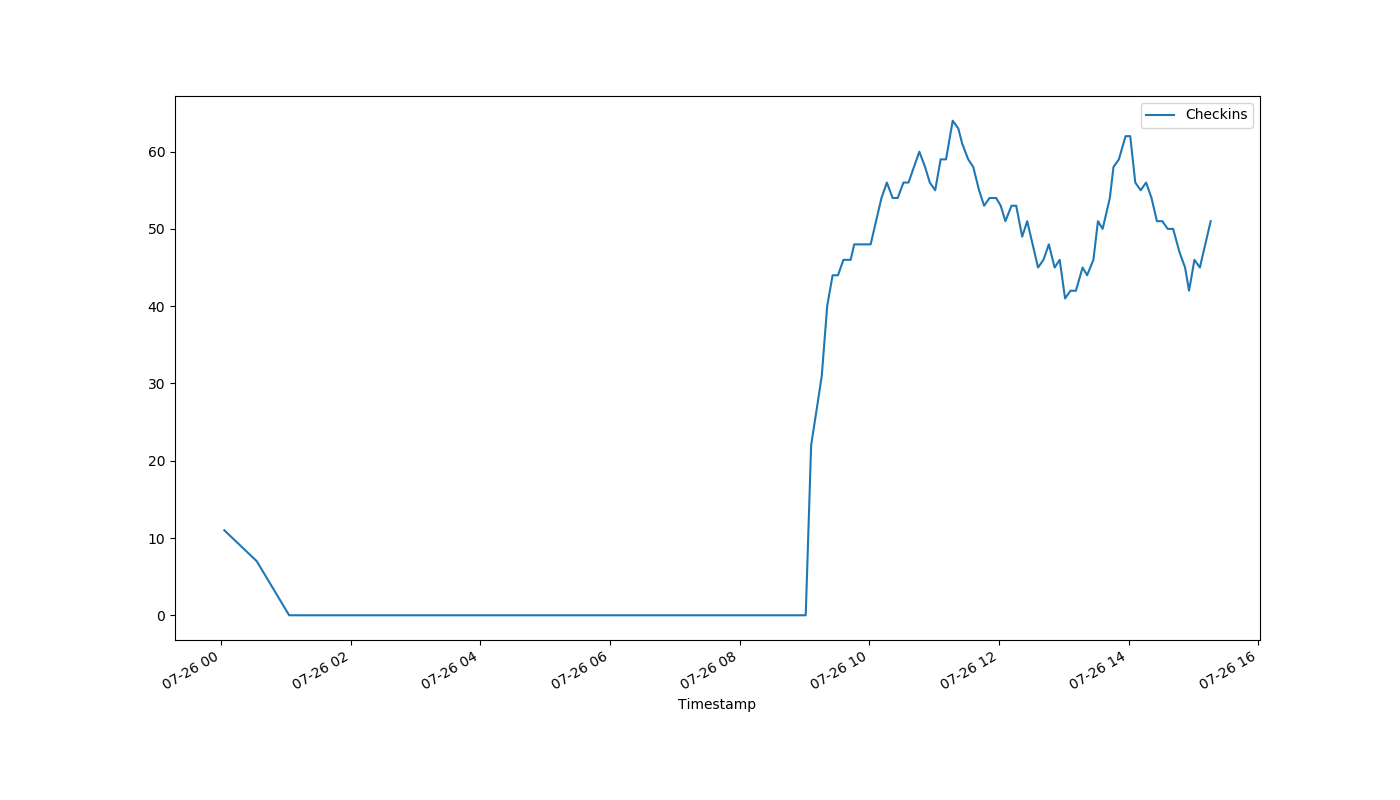
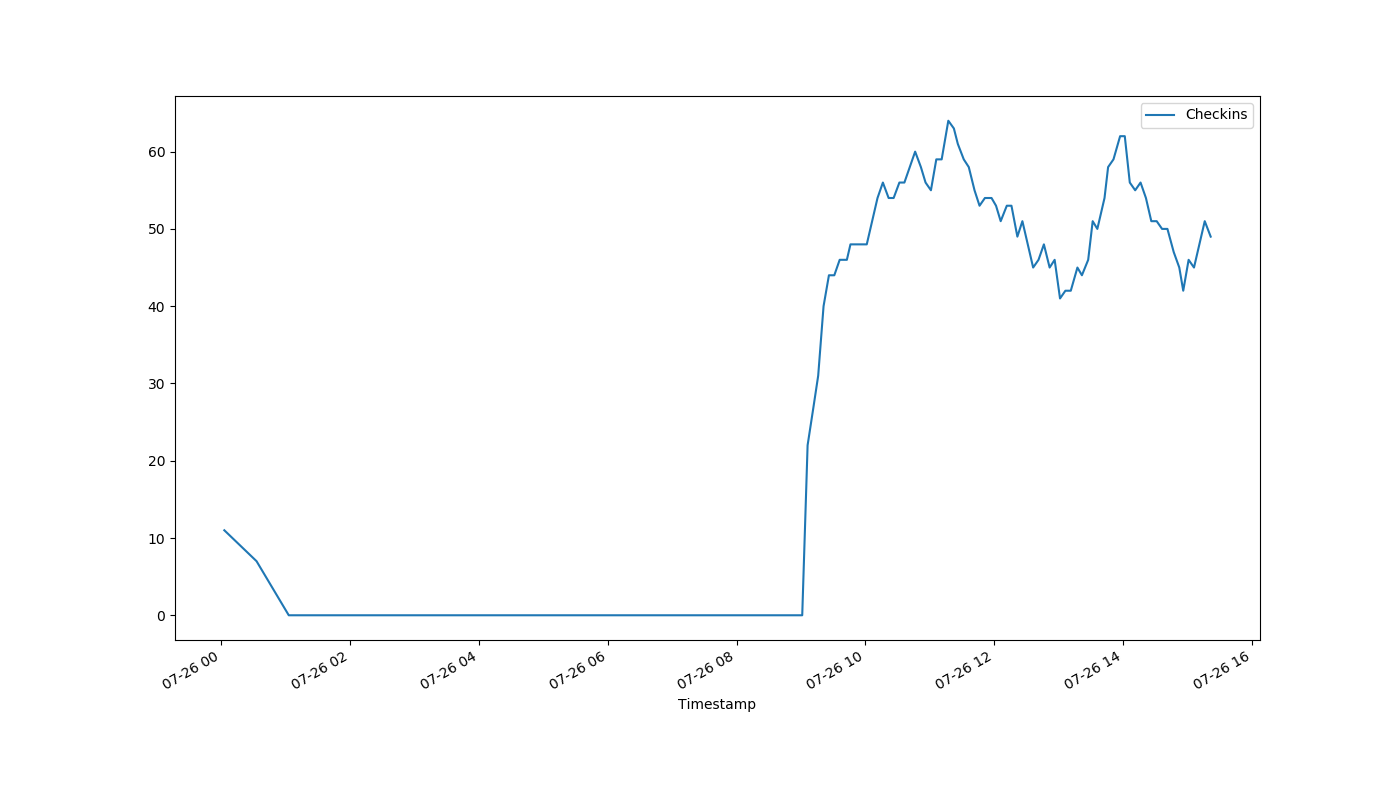
auto-Jul-26-15:22:14

diff --git a/index.html b/index.html
@@ -1,1 +1,1 @@
-<!DOCTYPE html><html><head><meta http-equiv="refresh" content="30"><link rel='stylesheet' href='holmcurrent.css'></head><body><p id='count'>51</p><div id='graph-wrap'><img id='graph' src='holmgraph-Jul-26.png'></div><p id='updated'>Last updated 15:16:08 / 15:16:03</p></body></html>
+<!DOCTYPE html><html><head><meta http-equiv="refresh" content="30"><link rel='stylesheet' href='holmcurrent.css'></head><body><p id='count'>49</p><div id='graph-wrap'><img id='graph' src='holmgraph-Jul-26.png'></div><p id='updated'>Last updated 15:22:08 / 15:21:35</p></body></html>
